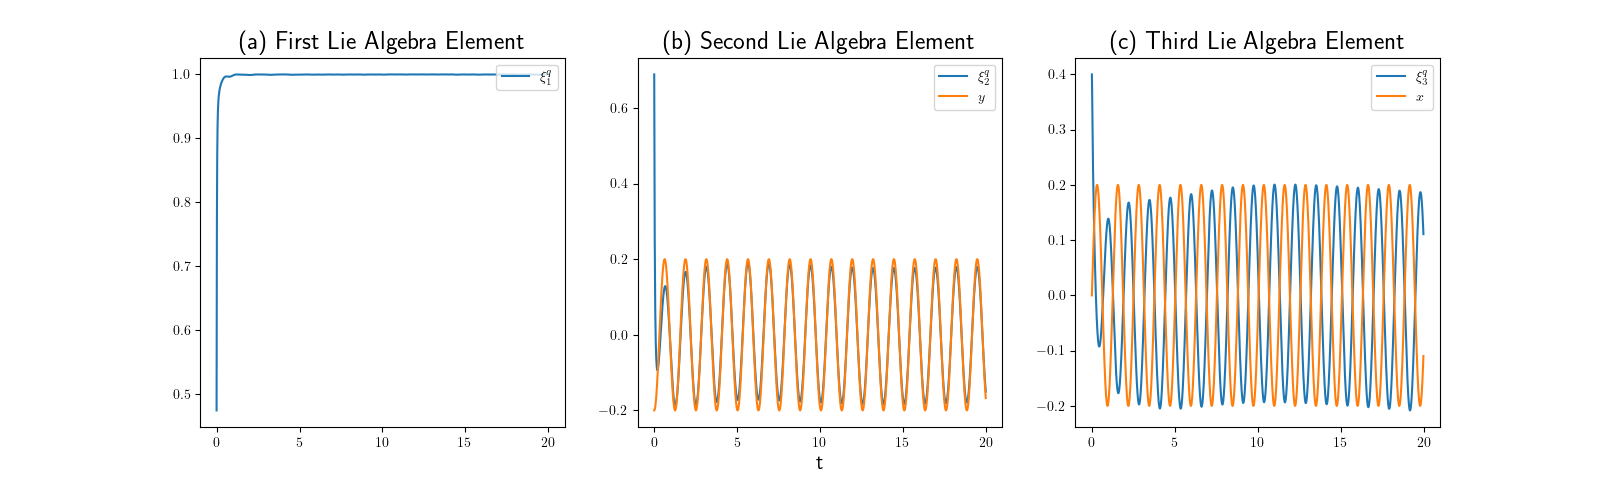
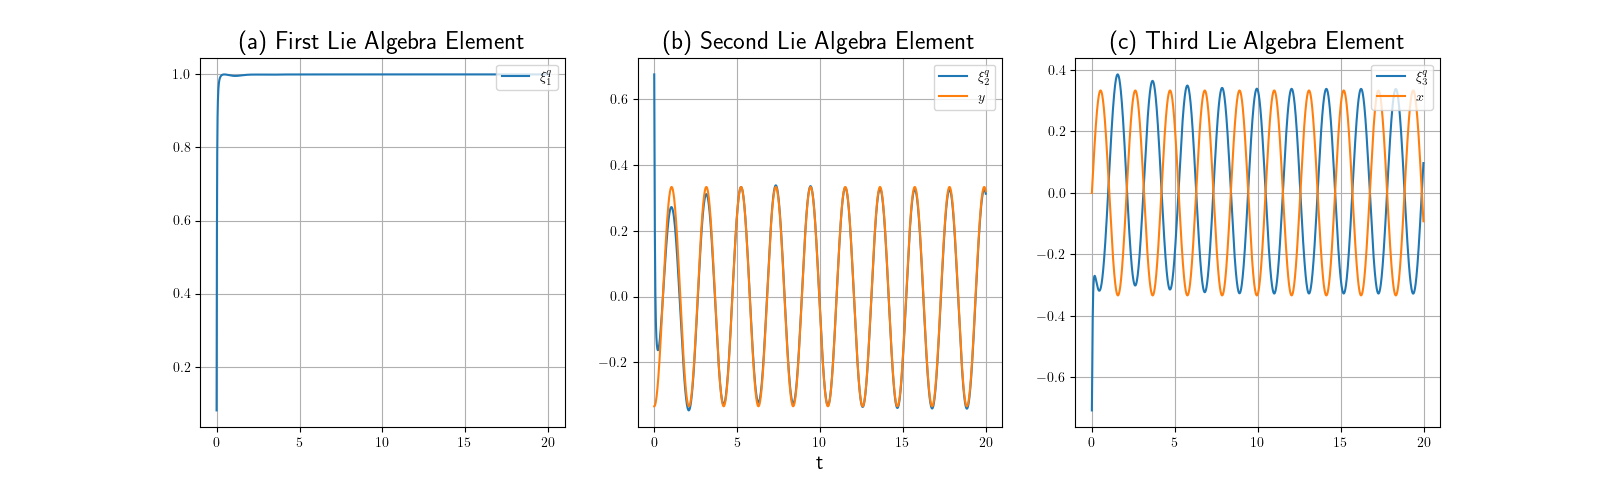
wrote plot in a class

diff --git a/plot.py b/plot.py
@@ -1,4 +1,85 @@
-from motion import EquationsOfMotion
+from model import FNN
+import torch
+import matplotlib.pyplot as plt
 
-sys = EquationsOfMotion()
-sys.plot()
+class Plot():
+    def __init__(self, nn: FNN, t: torch.Tensor, xi_Q_0: torch.Tensor) -> None:
+        q = nn.sys.q(t)
+        self.N = t.size(dim=2)
+
+        # vector field before training
+        self.xi_Q_0_np = xi_Q_0.detach().cpu().numpy() 
+
+        # vector field after training
+        xi_Q = nn.forward(q).T
+        self.xi_Q_np = xi_Q.detach().cpu().numpy()
+        xi = nn.xi(t)
+        self.xi_np = xi.detach().cpu().numpy()
+
+        # motion from training set
+        self.theta = q[0].detach().cpu().numpy()
+        self.phi = q[1].detach().cpu().numpy()
+        self.x = q[2].detach().cpu().numpy()
+        self.y = q[3].detach().cpu().numpy()
+        self.t = t[0].detach().cpu().numpy().reshape(self.N)
+
+    def plot(self, save_fig=True) -> None:
+        plt.rcParams['text.usetex'] = True
+        fig = plt.figure(figsize=plt.figaspect(0.3))
+
+        # fig 1
+        ax = fig.add_subplot(1, 3, 1, projection='3d')
+        ax.plot(self.xi_Q_0_np[:,1].reshape(self.N), self.xi_Q_0_np[:,2].reshape(self.N), self.xi_Q_0_np[:,0].reshape(self.N))
+        ax.set_xlabel(r'$\partial / \partial x$', fontsize=15)
+        ax.set_ylabel(r'$\partial / \partial y$', fontsize=15)
+        ax.set_zlabel(r'$\partial / \partial\phi$', fontsize=15)
+        ax.set_title('(a) Vector Field Before Training', fontsize=18)
+
+        ax = fig.add_subplot(1, 3, 2, projection='3d')
+        ax.plot(self.xi_Q_np[:,1].reshape(self.N), self.xi_Q_np[:,2].reshape(self.N), self.xi_Q_np[:,0].reshape(self.N))
+        ax.set_xlabel(r'$\partial / \partial x$', fontsize=15)
+        ax.set_ylabel(r'$\partial / \partial y$', fontsize=15)
+        ax.set_zlabel(r'$\partial / \partial\phi$', fontsize=15)
+        ax.set_title('(b) Vector Field After Training', fontsize=18)
+        ax.set_xlim(-1.5, 1.5)
+        ax.set_ylim(-1.5, 1.5)
+        ax.set_zlim(-1.5, 1.5)
+
+        ax = fig.add_subplot(1, 3, 3, projection='3d')
+        ax.plot(self.xi_np[:,1].reshape(self.N), self.xi_np[:,2].reshape(self.N), self.xi_np[:,0].reshape(self.N))
+        ax.set_xlabel(r'$x$', fontsize=15)
+        ax.set_ylabel(r'$y$', fontsize=15)
+        ax.set_zlabel(r'$\phi$', fontsize=15)
+        ax.set_title('(c) Lie Algebra After Training', fontsize=18)
+        ax.set_xlim(-1.5, 1.5)
+        ax.set_ylim(-1.5, 1.5)
+        ax.set_zlim(-1.5, 1.5)
+
+        if save_fig: plt.savefig('figs/vfield.png')
+
+        # fig 2
+        fig2 = plt.figure(figsize=plt.figaspect(0.3))
+        ax2 = fig2.add_subplot(1, 3, 1)
+        ax2.set_title('(a) First Lie Algebra Element', fontsize=18)
+        ax2.plot(self.t, self.xi_np[:,0].reshape(self.N), label=r'$\xi_1^q$')
+        ax2.legend(loc='upper right')
+        ax2.grid()
+
+        ax2 = fig2.add_subplot(1, 3, 2)
+        ax2.set_xlabel('t', fontsize=15)
+        ax2.set_title('(b) Second Lie Algebra Element', fontsize=18)
+        ax2.plot(self.t, self.xi_np[:,1].reshape(self.N), label=r'$\xi_2^q$')
+        ax2.plot(self.t, self.y, label=r'$y$')
+        ax2.legend(loc='upper right')
+        ax2.grid()
+
+        ax2 = fig2.add_subplot(1, 3, 3)
+        ax2.set_title('(c) Third Lie Algebra Element', fontsize=18)
+        ax2.plot(self.t, self.xi_np[:,2].reshape(self.N), label=r'$\xi_3^q$')
+        ax2.plot(self.t, self.x, label=r'$x$')
+        ax2.legend(loc='upper right')
+        ax2.grid()
+
+        if save_fig: plt.savefig('figs/LieAlg.png')
+        
+        plt.show()

diff --git a/train.py b/train.py
@@ -1,10 +1,10 @@
 import torch
 from model import FNN
-import matplotlib.pyplot as plt
+from plot import Plot
 
 # Network
 nn = FNN(input_dim=4)
-num_epochs = 5000
+num_epochs = 5001
 device = torch.device("cuda:0" if torch.cuda.is_available() else "cpu")
 nn.to(device)
 
@@ -13,14 +13,11 @@ t = torch.arange(0., 20, 0.01)
 N = t.size(dim=0)
 t = t.view(1, N)
 t = t.repeat(4,1,1)
-# t.requires_grad_()
 q = nn.sys.q(t)
-# q.requires_grad_()
 
 # vector field before training
 xi_0 = nn.forward(q).T
 xi_Q_0 = nn.xi_Q(t)
-xi_Q_0_np = xi_Q_0.detach().cpu().numpy() 
 
 # training
 for epoch in range(num_epochs):
@@ -35,73 +32,8 @@ for epoch in range(num_epochs):
     if epoch % 100 == 0:
         print('Epoch {} | Loss: {}'.format(epoch, J))
 
-# vector field after training
-xi_Q = nn.forward(q).T
-xi_Q_np = xi_Q.detach().cpu().numpy()
-xi = nn.xi(t)
-xi_np = xi.detach().cpu().numpy()
-
-# motion from training set
-theta = nn.sys.q(t)[0].detach().cpu().numpy()
-phi = nn.sys.q(t)[1].detach().cpu().numpy()
-x = nn.sys.q(t)[2].detach().cpu().numpy()
-y = nn.sys.q(t)[3].detach().cpu().numpy()
-t_np = t[0].detach().cpu().numpy().reshape(N)
-
-plt.rcParams['text.usetex'] = True
-fig = plt.figure(figsize=plt.figaspect(0.3))
-
-# fig 1
-ax = fig.add_subplot(1, 3, 1, projection='3d')
-ax.plot(xi_Q_0_np[:,1].reshape(N), xi_Q_0_np[:,2].reshape(N), xi_Q_0_np[:,0].reshape(N))
-ax.set_xlabel(r'$\partial / \partial x$', fontsize=15)
-ax.set_ylabel(r'$\partial / \partial y$', fontsize=15)
-ax.set_zlabel(r'$\partial / \partial\phi$', fontsize=15)
-ax.set_title('(a) Vector Field Before Training', fontsize=18)
-
-ax = fig.add_subplot(1, 3, 2, projection='3d')
-ax.plot(xi_Q_np[:,1].reshape(N), xi_Q_np[:,2].reshape(N), xi_Q_np[:,0].reshape(N))
-ax.set_xlabel(r'$\partial / \partial x$', fontsize=15)
-ax.set_ylabel(r'$\partial / \partial y$', fontsize=15)
-ax.set_zlabel(r'$\partial / \partial\phi$', fontsize=15)
-ax.set_title('(b) Vector Field After Training', fontsize=18)
-ax.set_xlim(-1.5, 1.5)
-ax.set_ylim(-1.5, 1.5)
-ax.set_zlim(-1.5, 1.5)
-
-ax = fig.add_subplot(1, 3, 3, projection='3d')
-ax.plot(xi_np[:,1].reshape(N), xi_np[:,2].reshape(N), xi_np[:,0].reshape(N))
-ax.set_xlabel(r'$x$', fontsize=15)
-ax.set_ylabel(r'$y$', fontsize=15)
-ax.set_zlabel(r'$\phi$', fontsize=15)
-ax.set_title('(c) Lie Algebra After Training', fontsize=18)
-ax.set_xlim(-1.5, 1.5)
-ax.set_ylim(-1.5, 1.5)
-ax.set_zlim(-1.5, 1.5)
-
-plt.savefig('figs/vfield.png')
-
-# fig 2
-fig2 = plt.figure(figsize=plt.figaspect(0.3))
-ax2 = fig2.add_subplot(1, 3, 1)
-ax2.set_title('(a) First Lie Algebra Element', fontsize=18)
-ax2.plot(t_np, xi_np[:,0].reshape(N), label=r'$\xi_1^q$')
-ax2.legend(loc='upper right')
-
-ax2 = fig2.add_subplot(1, 3, 2)
-ax2.set_xlabel('t', fontsize=15)
-ax2.set_title('(b) Second Lie Algebra Element', fontsize=18)
-ax2.plot(t_np, xi_np[:,1].reshape(N), label=r'$\xi_2^q$')
-ax2.plot(t_np, y, label=r'$y$')
-ax2.legend(loc='upper right')
-
-ax2 = fig2.add_subplot(1, 3, 3)
-ax2.set_title('(c) Third Lie Algebra Element', fontsize=18)
-ax2.plot(t_np, xi_np[:,2].reshape(N), label=r'$\xi_3^q$')
-ax2.plot(t_np, x, label=r'$x$')
-ax2.legend(loc='upper right')
-
-plt.savefig('figs/LieAlg.png')
-plt.show()
+# Plotting the result
+P = Plot(nn, t, xi_Q_0)
+P.plot(save_fig=True)
 
 breakpoint()

diff --git a/motion.py b/motion.py
@@ -16,7 +16,7 @@ class InfGenerator:
             return gen
             # return torch.tensor([[1., 0, 0], [-self.sys.y(t), 1., 0], [self.sys.x(t), 0, 1]])
         elif self.type == 'S1xR2':
-            return torch.tensor([[1., 0, 0], [0, 1., 0], [0, 0, 1.]])
+            return torch.tensor([[1., 0, 0], [0, 1., 0], [0, 0, 1.]]).repeat(N,1,1).reshape(N,3,3)
         
     def generator_inv(self, t: torch.Tensor) -> torch.Tensor:
         N = t.size(dim=2)
@@ -27,23 +27,13 @@ class InfGenerator:
             return gen
             # return torch.tensor([[1., 0, 0], [-self.sys.y(t), 1., 0], [self.sys.x(t), 0, 1]])
         elif self.type == 'S1xR2':
-            return torch.tensor([[1., 0, 0], [0, 1., 0], [0, 0, 1.]])
-        
-    def d_dt_generator(self, t):
-        N = t.size(dim=2)
-        if self.type == 'SE(2)':
-            gen = -self.sys.q_dot(t)[3].reshape(N,1,1)*torch.tensor([[0., 0., 0.], [1, 0., 0.], [0., 0., 0.]]).repeat(N,1,1).reshape(N,3,3) + \
-                    self.sys.q_dot(t)[2].reshape(N,1,1)*torch.tensor([[0., 0., 0.], [0., 0., 0.], [1., 0., 0.]]).repeat(N,1,1).reshape(N,3,3)
-            return gen
-            # return torch.tensor([[0, 0, 0], [-self.sys.y_dot(t), 0, 0], [self.sys.x_dot(t), 0, 0]])
-        elif self.type == 'S1xR2':
-            return torch.tensor([[0, 0, 0], [0, 0, 0], [0, 0, 0]])
+            return torch.tensor([[1., 0, 0], [0, 1., 0], [0, 0, 1.]]).repeat(N,1,1).reshape(N,3,3)
         
     class EquationsOfMotion:
 
         def __init__(self, 
                     Omega: torch.double = 1,
-                    omega: torch.double = 5,
+                    omega: torch.double = 3,
                     R: torch.double = 1,
                     phi_0: torch.double = 0,
                     x_0: torch.double = 0,
